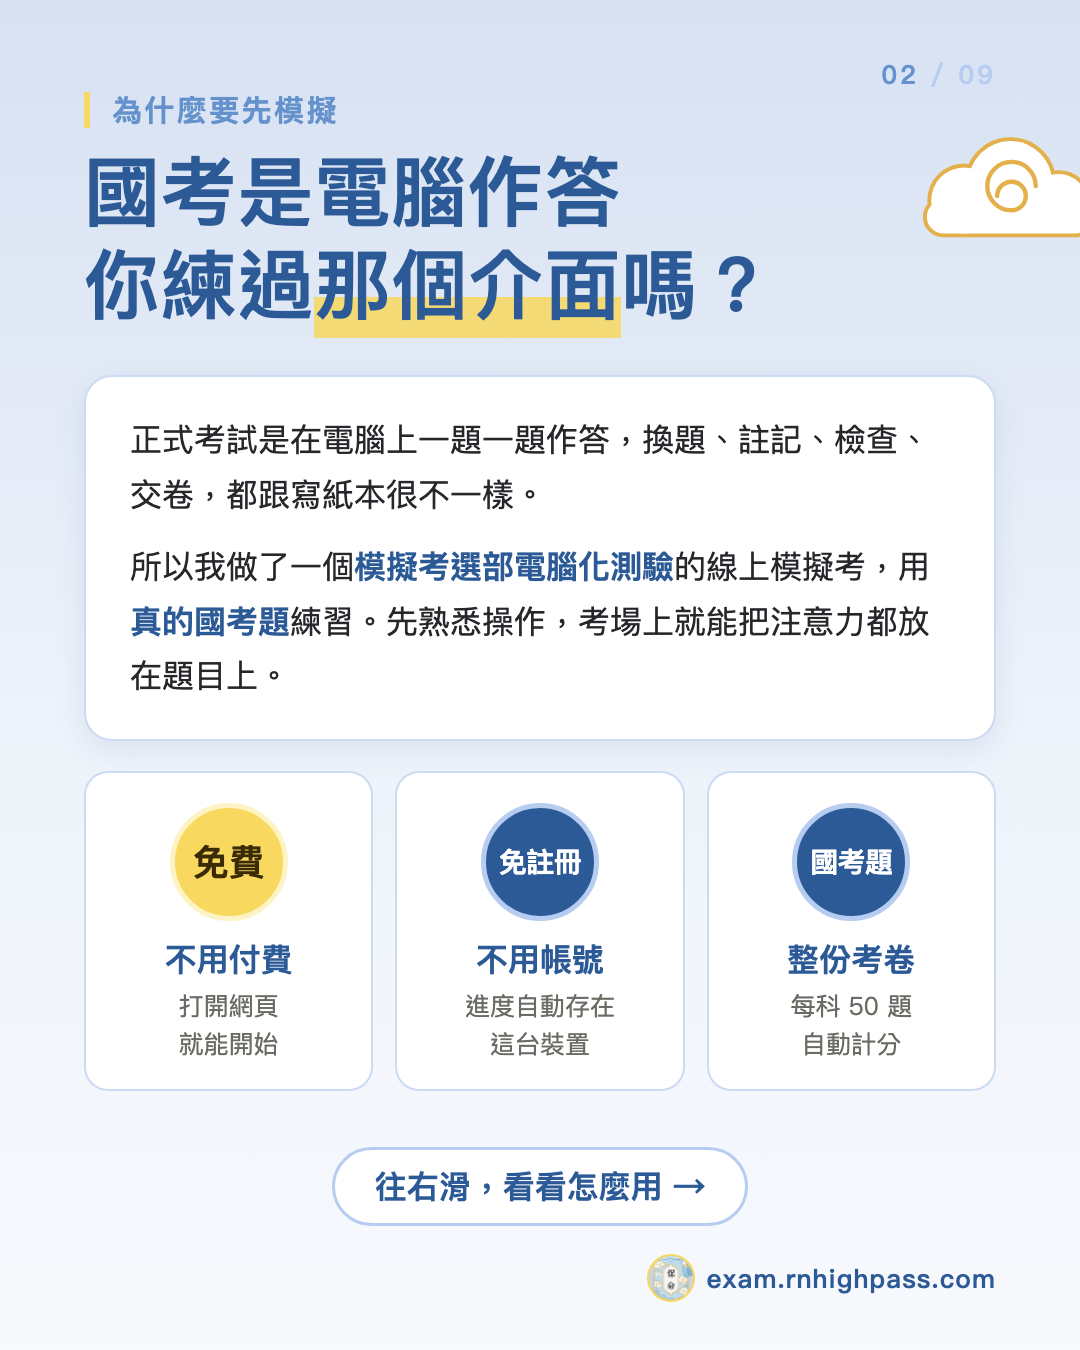
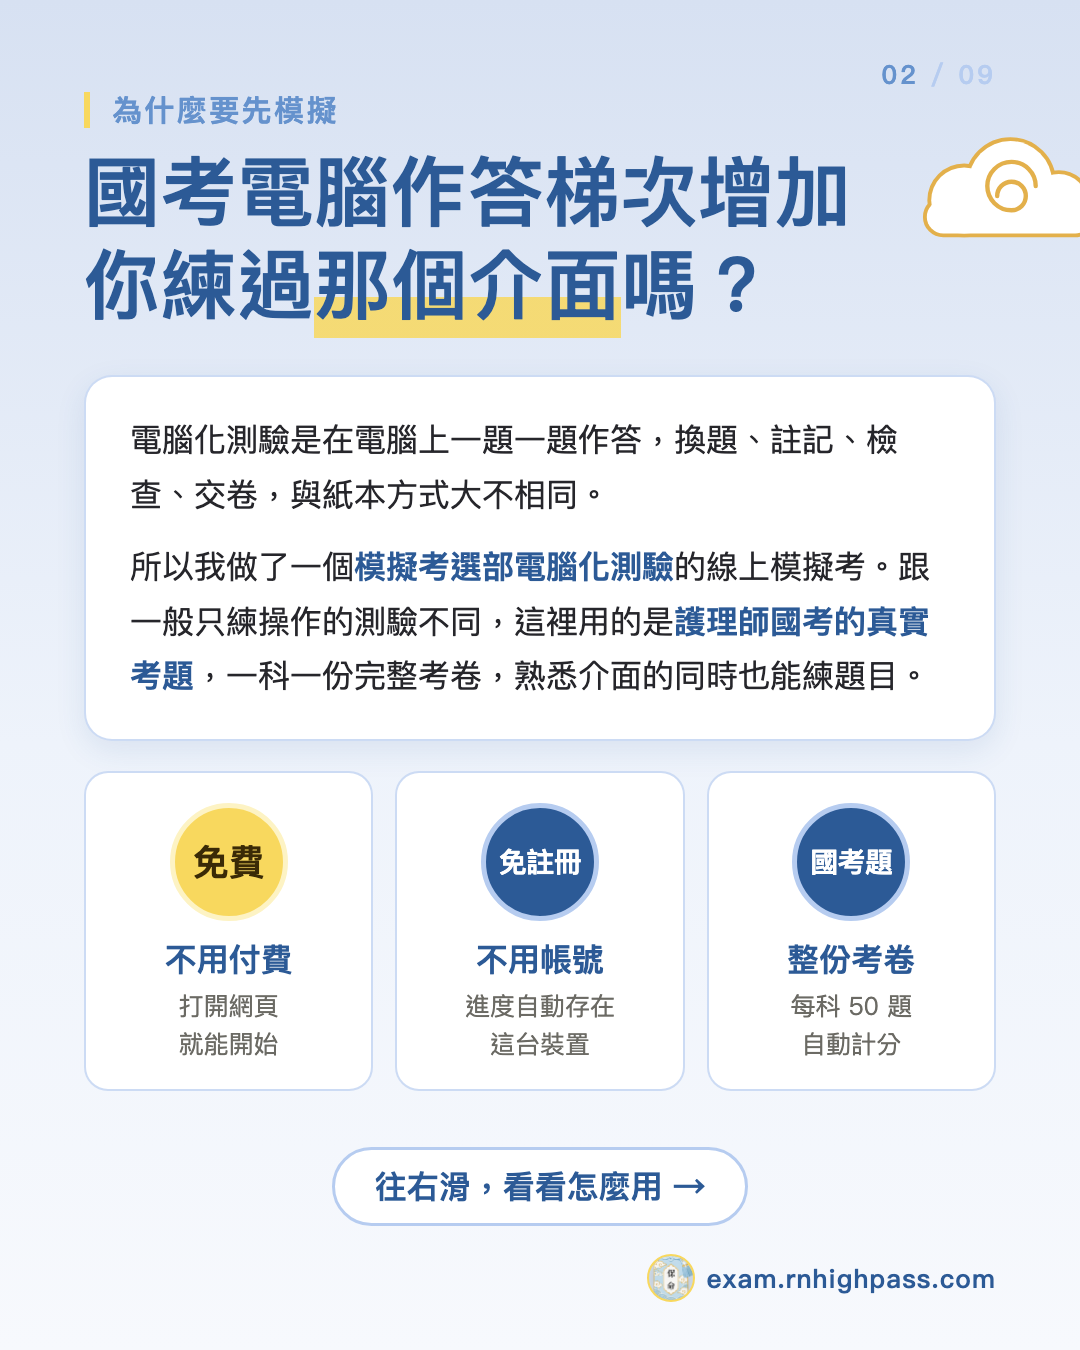
第二篇社群圖：第 2 張強調電腦化測驗與真實國考題，第 8 張註明逐題對錯為本站功能；同步文案

Changed region(s): [[0.1222, 0.4044, 0.8556, 0.5289], [0.2139, 0.0933, 0.7944, 0.1867], [0.1222, 0.3111, 0.8556, 0.3733]]

diff --git a/social/post2/slides.html b/social/post2/slides.html
@@ -32,10 +32,10 @@
 <section class="slide">
   <div class="num">02</div>
   <div class="kicker">為什麼要先模擬</div>
-  <h2>國考是電腦作答<br>你練過<em>那個介面</em>嗎？</h2>
+  <h2>國考電腦作答梯次增加<br>你練過<em>那個介面</em>嗎？</h2>
   <div class="card prose">
-    <p>正式考試是在電腦上一題一題作答，換題、註記、檢查、交卷，都跟寫紙本很不一樣。</p>
-    <p>所以我做了一個<b>模擬考選部電腦化測驗</b>的線上模擬考，用<b>真的國考題</b>練習。先熟悉操作，考場上就能把注意力都放在題目上。</p>
+    <p>電腦化測驗是在電腦上一題一題作答，換題、註記、檢查、交卷，與紙本方式大不相同。</p>
+    <p>所以我做了一個<b>模擬考選部電腦化測驗</b>的線上模擬考。跟一般只練操作的測驗不同，這裡用的是<b>護理師國考的真實考題</b>，一科一份完整考卷，熟悉介面的同時也能練題目。</p>
   </div>
   <div class="trio">
     <div class="feat"><div class="badge gold">免費</div><h3>不用付費</h3><p>打開網頁<br>就能開始</p></div>
@@ -138,14 +138,15 @@
 <section class="slide">
   <div class="num">08</div>
   <div class="kicker">交卷與成績</div>
-  <h2>交卷後<br>馬上看到<em>每題對錯</em></h2>
+  <h2>交卷後<br>還能看到<em>每題對錯</em></h2>
   <div class="browser narrow">
     <div class="bar"><i></i><i></i><i></i><span>成績</span></div>
     <div class="ss" style="--x:.06;--y:.12;--w:.44;--h:.518"><img src="shots/10-result.png" alt=""></div>
   </div>
   <ul class="points">
-    <li><b>交卷流程</b>：全部作答完才能結束作答，時間到自動交卷；練習時也可以提前交卷</li>
-    <li><b>想看詳解</b>：用題號（例如 115-2-基醫-1）到分章詳解或歷年考題 PDF 搜尋</li>
+    <li><b>逐題對錯</b>：正式國考交卷後只會顯示分數，逐題對錯是本站為了方便練習額外加上的</li>
+    <li><b>交卷流程</b>：全部作答完才能結束，時間到自動交卷</li>
+    <li><b>想看詳解</b>：用題號到分章詳解 PDF 搜尋</li>
   </ul>
   <div class="foot"><span>exam.rnhighpass.com</span></div>
 </section>

diff --git a/social/post2/captions.md b/social/post2/captions.md
@@ -9,15 +9,15 @@
 
 ## Instagram 文案
 
-護理師國考是電腦作答，你練過那個介面嗎？🖥
+護理師國考的電腦作答梯次越來越多，你練過那個介面嗎？🖥
 
-做了一個免費的「國考模擬測驗」，模擬考選部電腦化測驗的介面，用真的國考題練習：
+做了一個免費的「國考模擬測驗」，模擬考選部電腦化測驗的介面，而且用的是護理師國考的真實考題，一科一份完整考卷：
 
 ✏ 一次一題、上一題／下一題、下拉跳題
 ⏱ 模擬考試時間，剩 5 分鐘會變紅色提醒
 🔀 選項順序打亂，跟正式考試一樣每個人看到的都不同
 ▲●■ 輔助作答註記＋瀏覽作答情形，交卷前一眼看完全部題目
-📊 交卷後馬上看到分數跟每題對錯
+📊 交卷後可以看到分數和每題對錯（正式國考只顯示分數，逐題對錯是本站為了練習加上的）
 
 目前收錄 115-2、115-1、114-3 三次國考，5 大科都能考
 免費、免註冊、打開網頁直接練習
@@ -32,13 +32,13 @@
 
 ## Threads 文案（主題標籤選「護理師國考」）
 
-護理師國考是電腦作答，考前有練過那個介面嗎？🙋
+護理師國考的電腦作答梯次越來越多，考前有練過那個介面嗎？🙋
 
-我做了一個免費的國考模擬測驗，模擬考選部電腦化測驗介面，用真的國考題練 👉 exam.rnhighpass.com
+我做了一個免費的國考模擬測驗，模擬考選部電腦化測驗介面，用的是護理師國考的真實考題 👉 exam.rnhighpass.com
 
 ✔ 模擬考試時間、一次一題
 ✔ ▲●■ 輔助作答註記、瀏覽作答情形
-✔ 交卷流程類似，考完馬上看分數和每題對錯
+✔ 交卷流程類似，考完可以看分數和每題對錯（國考只顯示分數，這是本站額外加的）
 ✔ 目前有 115-2、115-1、114-3，5 大科都能考
 
 免註冊、直接練習。想看詳解可以用題號到 rnhighpass.com 的分章詳解 PDF 搜尋 📘

diff --git a/social/dcard.md b/social/dcard.md
@@ -41,11 +41,11 @@
 
 🔗 https://exam.rnhighpass.com
 
-國考是電腦作答，所以我也做了一個模擬考選部電腦化測驗介面的線上模擬考：
+國考的電腦作答梯次越來越多，電腦化測驗與紙本方式大不相同，所以我也做了一個模擬考選部電腦化測驗介面的線上模擬考。跟一般只練操作的測驗不同，這裡用的是護理師國考的真實考題，一科一份完整考卷：
 
 - 模擬考試時間、一次一題、選項順序打亂
 - ▲●■ 輔助作答註記、瀏覽作答情形，交卷流程都類似
-- 交卷後馬上看到分數和每題對錯
+- 交卷後可以看到分數和每題對錯（正式國考只會顯示分數，逐題對錯是本站為了方便練習額外加上的）
 - 目前收錄 115-2、115-1、114-3 三次國考，免註冊直接練習
 
 （圖：post2/05 作答畫面）
